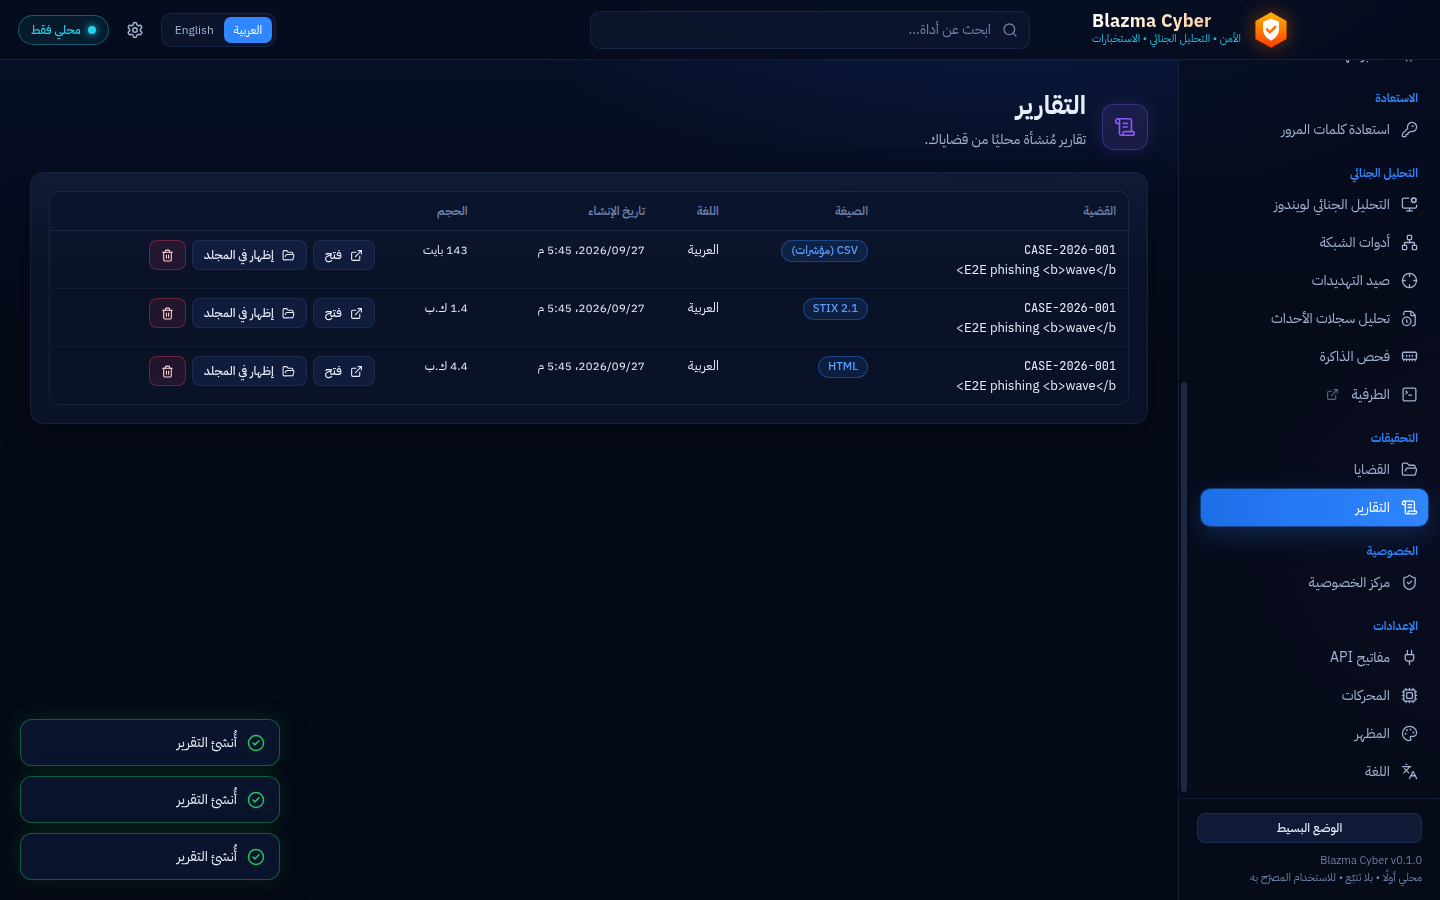
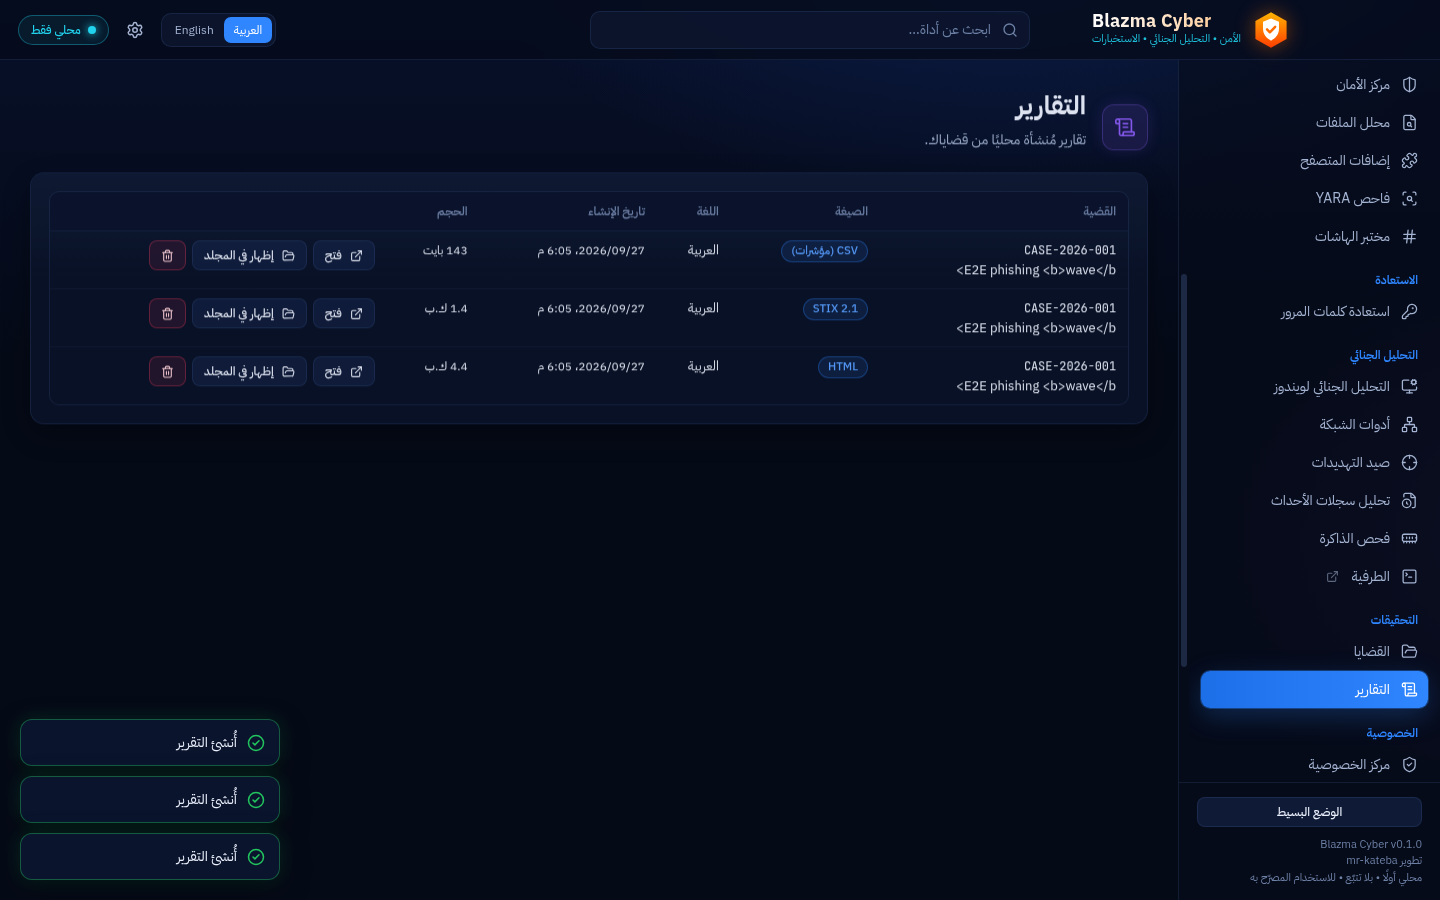
Show the developer (mr-kateba) in the app, installer and README; repository renamed to Blazma-Cyber
- About: Developer row and copyright line; language picker and sidebar
  footer show "By mr-kateba" / "تطوير mr-kateba"
- Installer/exe metadata: copyright and package author
- Links, update check and attestation commands use mr-kateba/Blazma-Cyber

diff --git a/tests/updates.test.ts b/tests/updates.test.ts
@@ -21,8 +21,8 @@ describe('Version comparison', () => {
   });
 
   it('picks the newest real release; drafts and non-version tags are ignored; the URL is built, never taken from the answer', () => {
-    expect(newestRelease(RELEASES, 'mr-kateba/-BLAZMA-CYBER')).toEqual({
-      tag: 'v0.2.0-beta.1', name: 'Beta 2', url: 'https://github.com/mr-kateba/-BLAZMA-CYBER/releases/tag/v0.2.0-beta.1', publishedAt: '2026-10-01T00:00:00Z', prerelease: true,
+    expect(newestRelease(RELEASES, 'mr-kateba/Blazma-Cyber')).toEqual({
+      tag: 'v0.2.0-beta.1', name: 'Beta 2', url: 'https://github.com/mr-kateba/Blazma-Cyber/releases/tag/v0.2.0-beta.1', publishedAt: '2026-10-01T00:00:00Z', prerelease: true,
     });
     expect(newestRelease({ message: 'Not Found' }, 'x/y')).toBeNull();
   });
@@ -38,9 +38,9 @@ describe('Manual update check', () => {
     const f = vi.fn(async (_u: string) => new Response(JSON.stringify(RELEASES), { status: 200 }));
     const { g, log } = gate(f);
     const r = await checkForUpdates(g, '0.1.0');
-    expect(f.mock.calls[0]![0]).toBe('https://api.github.com/repos/mr-kateba/-BLAZMA-CYBER/releases?per_page=20');
+    expect(f.mock.calls[0]![0]).toBe('https://api.github.com/repos/mr-kateba/Blazma-Cyber/releases?per_page=20');
     expect(r).toMatchObject({ current: '0.1.0', newer: true, latest: { tag: 'v0.2.0-beta.1' } });
-    expect(lastReleaseUrl()).toBe('https://github.com/mr-kateba/-BLAZMA-CYBER/releases/tag/v0.2.0-beta.1');
+    expect(lastReleaseUrl()).toBe('https://github.com/mr-kateba/Blazma-Cyber/releases/tag/v0.2.0-beta.1');
     expect(log[0]).toMatchObject({ host: 'api.github.com', dataKind: 'privacy.data.none', outcome: 'allowed' });
     expect((await checkForUpdates(gate(f).g, '0.2.0')).newer).toBe(false); // the final 0.2.0 is newer than its beta
   });

diff --git a/src/renderer/pages/Settings.tsx b/src/renderer/pages/Settings.tsx
@@ -1,6 +1,6 @@
 import { useEffect, useState } from 'react';
 import { Cpu, Info, KeyRound, Lock, RefreshCw, Settings as Gear, ShieldCheck } from 'lucide-react';
-import type { ApiKeyService, AppInfo, Settings, UpdateCheck } from '../../shared/api';
+import { APP_AUTHOR, APP_COPYRIGHT_YEAR, type ApiKeyService, type AppInfo, type Settings, type UpdateCheck } from '../../shared/api';
 import { Badge, Card, IconTile, Ltr, Notice, Tabs, Toggle, usePoll } from '../components/ui';
 import { useApp } from '../components/AppContext';
 import { useI18n } from '../i18n/I18nProvider';
@@ -271,6 +271,7 @@ function About({ info }: { info: AppInfo | null }) {
       {info && (
         <dl className="kv">
           <dt>{t('settings.version')}</dt><dd><Ltr>{info.version}</Ltr></dd>
+          <dt>{t('settings.developer')}</dt><dd><Ltr>{APP_AUTHOR}</Ltr></dd>
           <dt>{t('settings.platform')}</dt><dd><Ltr>{info.platform}</Ltr></dd>
           <dt>{t('settings.electron')}</dt><dd><Ltr>{info.electron}</Ltr></dd>
           <dt>{t('settings.dataDir')}</dt><dd><Ltr mono breakAll className="small">{info.dataDir}</Ltr>{info.portable && <div className="tiny dim">{t('settings.portableNote')}</div>}</dd>
@@ -278,6 +279,7 @@ function About({ info }: { info: AppInfo | null }) {
         </dl>
       )}
       <UpdateCheckRow />
+      <p className="small" style={{ marginBottom: 4 }}>{t('settings.copyright', { year: APP_COPYRIGHT_YEAR, author: APP_AUTHOR })}</p>
       <p className="small dim" style={{ marginBottom: 0 }}>{t('settings.license')}</p>
     </Card>
   );

diff --git a/src/renderer/pages/LanguagePicker.tsx b/src/renderer/pages/LanguagePicker.tsx
@@ -1,7 +1,7 @@
 import { useState } from 'react';
 import { Languages } from 'lucide-react';
 import type { Lang } from '../../core/i18n';
-import type { UiMode } from '../../shared/api';
+import { APP_AUTHOR, type UiMode } from '../../shared/api';
 import { Logo } from '../components/Logo';
 import { translatorFor } from '../i18n/I18nProvider';
 
@@ -20,6 +20,7 @@ export function LanguagePicker({ onPick }: { onPick: (l: Lang, mode: UiMode) => 
           <Logo size={72} className="brand-logo" />
           <div className="brand-name" style={{ fontSize: 26, marginTop: 14 }}>Blazma Cyber</div>
           <div className="brand-tag" style={{ marginTop: 4 }}>{t('app.tagline')}</div>
+          <div className="tiny dim" style={{ marginTop: 6 }}>{t('app.byline', { author: APP_AUTHOR })}</div>
           <h1 style={{ marginTop: 26, fontSize: 22, display: 'flex', gap: 10, justifyContent: 'center', alignItems: 'center' }}>
             <Languages size={22} color="var(--cyan)" />
             <span>{ar('langPicker.title')}</span>

diff --git a/src/renderer/Shell.tsx b/src/renderer/Shell.tsx
@@ -7,6 +7,7 @@ import { useI18n } from './i18n/I18nProvider';
 import { findItem, labelKeyFor, visibleNav, type PageId } from './nav';
 import { DownloadsOpenListener } from './components/DownloadsWatch';
 import { Dashboard } from './pages/Dashboard';
+import { APP_AUTHOR } from '../shared/api';
 
 // Every page except the dashboard is loaded on first visit (smaller startup bundle).
 const FileAnalyzer = lazy(() => import('./pages/FileAnalyzer').then((m) => ({ default: m.FileAnalyzer })));
@@ -293,6 +294,7 @@ export function Shell() {
             <div>
               <span className="ltr">Blazma Cyber v0.1.0</span>
             </div>
+            <div>{t('app.byline', { author: APP_AUTHOR })}</div>
             <div>{t('app.footer')}</div>
           </div>
         </aside>

diff --git a/src/main/services/updates.ts b/src/main/services/updates.ts
@@ -6,7 +6,7 @@ import type { NetworkGate } from '../../core/network-gate';
 import { compareSemver, newestRelease, parseSemver } from '../../core/version';
 import type { UpdateCheck } from '../../shared/api';
 
-export const UPDATE_REPO = 'mr-kateba/-BLAZMA-CYBER';
+export const UPDATE_REPO = 'mr-kateba/Blazma-Cyber';
 
 export class UpdateError extends Error {
   constructor(readonly code: string) {

diff --git a/src/shared/api.ts b/src/shared/api.ts
@@ -302,6 +302,10 @@ export interface TaskProgress {
   stage: 'hashing' | 'analyzing' | 'scanning' | 'done';
 }
 
+/** The developer shown in About, the first-launch screen and the installer metadata. */
+export const APP_AUTHOR = 'mr-kateba';
+export const APP_COPYRIGHT_YEAR = 2026;
+
 export interface AppInfo {
   version: string;
   platform: string;

diff --git a/README.ar.md b/README.ar.md
@@ -2,6 +2,8 @@
 
 # Blazma Cyber — الشرح بالعربي
 
+تطوير **[mr-kateba](https://github.com/mr-kateba)**
+
 **الأمن • التحليل الجنائي • الاستخبارات**
 
 برنامج سطح مكتب لـ Windows 10/11 للأمن السيبراني الدفاعي: تحليل الملفات، وفحص Defender وYARA،
@@ -17,16 +19,16 @@
 ## الطريقة 1: تنزيل المثبّت الجاهز (الأسهل)
 
 ### 1) التنزيل
-- افتح صفحة **[الإصدارات (Releases)](https://github.com/mr-kateba/-BLAZMA-CYBER/releases)** — تظهر أيضًا في
+- افتح صفحة **[الإصدارات (Releases)](https://github.com/mr-kateba/Blazma-Cyber/releases)** — تظهر أيضًا في
   يمين صفحة المستودع الرئيسية تحت **Releases**.
 - نزّل `BLAZMA-CYBER-0.1.0-x64-setup.exe` من قسم **Assets**. لا يحتاج تسجيل دخول.
 - رابط مباشر لآخر إصدار تجريبي (v0.1.0-beta.1):
-  https://github.com/mr-kateba/-BLAZMA-CYBER/releases/download/v0.1.0-beta.1/BLAZMA-CYBER-0.1.0-x64-setup.exe
+  https://github.com/mr-kateba/Blazma-Cyber/releases/download/v0.1.0-beta.1/BLAZMA-CYBER-0.1.0-x64-setup.exe
 
 #### (اختياري) تحقّق أن الملف سليم وأصلي
 - **البصمة:** في PowerShell: `Get-FileHash .\BLAZMA-CYBER-0.1.0-x64-setup.exe -Algorithm SHA256`
   ويجب أن تطابق القيمة في ملف `SHA256SUMS.txt` وفي صفحة الإصدار.
-- **شهادة مصدر البناء (من GitHub):** `gh attestation verify .\BLAZMA-CYBER-0.1.0-x64-setup.exe -R mr-kateba/-BLAZMA-CYBER`
+- **شهادة مصدر البناء (من GitHub):** `gh attestation verify .\BLAZMA-CYBER-0.1.0-x64-setup.exe -R mr-kateba/Blazma-Cyber`
   تثبت أن الملف بُني من هذا المستودع عبر GitHub Actions ولم يُعدَّل بعدها (تحتاج أداة [GitHub CLI](https://cli.github.com)).
 
 > نسخ أحدث للمطوّرين تُبنى تلقائيًا بعد كل تعديل في **Actions → CI → Artifacts →
@@ -61,7 +63,7 @@
 **المتطلبات:** Windows 10/11 64-bit، و[Node.js 20 أو أحدث](https://nodejs.org) (يُفضّل 22 LTS)، وGit.
 
 ```powershell
-git clone https://github.com/mr-kateba/-BLAZMA-CYBER.git Blazma-Cyber
+git clone https://github.com/mr-kateba/Blazma-Cyber.git Blazma-Cyber
 cd Blazma-Cyber
 .\Start-Blazma.ps1 -Install     # أول مرة: يثبّت الاعتماديات، يبني البرنامج، ويشغّله
 .\Start-Blazma.ps1              # المرات التالية
@@ -140,7 +142,7 @@ npm run dist:win     # الناتج: release\Blazma-Cyber-<الإصدار>-x64-s
 مخصّص للاستخدام الدفاعي على الأجهزة والشبكات والملفات التي تملكها أو المصرّح لك بفحصها.
 
 ## الترخيص
-حقوق النشر © 2026 mr-kateba ومساهمو Blazma Cyber.
+حقوق النشر © 2026 [mr-kateba](https://github.com/mr-kateba).
 
 البرنامج مفتوح المصدر بترخيص **GNU GPL الإصدار 3 أو أحدث** ([LICENSE](LICENSE)):
 - تقدر تستخدمه وتنسخه وتعدّله وتوزّعه بحرية.

diff --git a/.github/release-notes.md b/.github/release-notes.md
@@ -2,7 +2,7 @@
 
 ## إصدار تجريبي — Blazma Cyber
 
-منصة أمن سيبراني دفاعي لـ Windows 10/11، محلية أولًا، بالعربي والإنجليزي. الشرح الكامل: [README.ar.md](https://github.com/mr-kateba/-BLAZMA-CYBER/blob/main/README.ar.md)
+منصة أمن سيبراني دفاعي لـ Windows 10/11، محلية أولًا، بالعربي والإنجليزي. الشرح الكامل: [README.ar.md](https://github.com/mr-kateba/Blazma-Cyber/blob/main/README.ar.md)
 
 ### التثبيت
 1. نزّل `Blazma-Cyber-*-x64-setup.exe` من الملفات بالأسفل.
@@ -13,7 +13,7 @@
 
 ### التحقق من سلامة الملف
 - **شهادة مصدر البناء (Build provenance):** تثبت أن الملف بُني من هذا المستودع عبر GitHub Actions ولم يُعدَّل بعدها:
-  `gh attestation verify BLAZMA-CYBER-0.1.0-x64-setup.exe -R mr-kateba/-BLAZMA-CYBER`
+  `gh attestation verify BLAZMA-CYBER-0.1.0-x64-setup.exe -R mr-kateba/Blazma-Cyber`
 - **SHA-256:** قارن الناتج بالقيمة بالأسفل وبملف `SHA256SUMS.txt`:
   `Get-FileHash .\BLAZMA-CYBER-0.1.0-x64-setup.exe -Algorithm SHA256`
 
@@ -32,6 +32,6 @@ Privacy-first, local-first, bilingual (Arabic/English) defensive cybersecurity w
 
 - **Portable:** `Blazma-Cyber-*-x64-portable.zip` runs without installing (unzip anywhere, e.g. a USB drive); all data stays in `Blazma-data` next to the program.
 - **Unsigned** (no code-signing certificate yet): SmartScreen shows *Windows protected your PC* → **More info → Run anyway**. Per-user install, no administrator rights.
-- **Verify provenance:** `gh attestation verify BLAZMA-CYBER-0.1.0-x64-setup.exe -R mr-kateba/-BLAZMA-CYBER` (GitHub build-provenance attestation, Sigstore).
+- **Verify provenance:** `gh attestation verify BLAZMA-CYBER-0.1.0-x64-setup.exe -R mr-kateba/Blazma-Cyber` (GitHub build-provenance attestation, Sigstore).
 - **Verify integrity:** compare `Get-FileHash <file> -Algorithm SHA256` with `SHA256SUMS.txt` / the value below.
 - Verified automatically on real Windows (Server 2025) in CI; not yet hand-tested on a Windows 10/11 desktop (install/uninstall, title bar, Defender quick/full scans, real John/hashcat).

diff --git a/README.md b/README.md
@@ -6,6 +6,8 @@
 
 A privacy-first, local-first, bilingual (العربية / English) Windows cybersecurity workbench.
 
+By **[mr-kateba](https://github.com/mr-kateba)**
+
 **[الشرح بالعربي — التنزيل والتثبيت والتشغيل](README.ar.md)**
 
 </div>
@@ -102,10 +104,10 @@ The launcher checks prerequisites and prints clear errors (English + Arabic). It
 anything unless you pass `-Install`.
 
 ## Download the installer
-Get it from **[Releases](https://github.com/mr-kateba/-BLAZMA-CYBER/releases)** (latest pre-release:
-[`BLAZMA-CYBER-0.1.0-x64-setup.exe`](https://github.com/mr-kateba/-BLAZMA-CYBER/releases/download/v0.1.0-beta.1/BLAZMA-CYBER-0.1.0-x64-setup.exe)).
+Get it from **[Releases](https://github.com/mr-kateba/Blazma-Cyber/releases)** (latest pre-release:
+[`BLAZMA-CYBER-0.1.0-x64-setup.exe`](https://github.com/mr-kateba/Blazma-Cyber/releases/download/v0.1.0-beta.1/BLAZMA-CYBER-0.1.0-x64-setup.exe)).
 It is unsigned, so SmartScreen shows "Windows protected your PC" → **More info → Run anyway**.
-Verify it with `SHA256SUMS.txt` or `gh attestation verify <file> -R mr-kateba/-BLAZMA-CYBER`
+Verify it with `SHA256SUMS.txt` or `gh attestation verify <file> -R mr-kateba/Blazma-Cyber`
 (GitHub build provenance). Development builds: **Actions → CI → Artifacts** (sign-in, 14 days).
 Step-by-step in Arabic: [README.ar.md](README.ar.md).
 
@@ -161,7 +163,7 @@ Architecture: [docs/ARCHITECTURE.md](docs/ARCHITECTURE.md).
 Intended for defensive use on systems, networks and files you own or are authorized to assess.
 
 ## License
-Copyright © 2026 mr-kateba and Blazma Cyber contributors.
+Copyright © 2026 [mr-kateba](https://github.com/mr-kateba).
 
 Blazma Cyber is free software: you can redistribute it and/or modify it under the terms of the
 **GNU General Public License v3.0 or later** ([LICENSE](LICENSE)). It is distributed WITHOUT ANY

diff --git a/ENGINEERING.md b/ENGINEERING.md
@@ -183,3 +183,4 @@ API keys only via Electron `safeStorage` (DPAPI) — refuse to store if encrypti
 | 2026-09 | Updates: manual check only, link to the release page built in main (never the API's URL); no auto-download/installer | The app never downloads or runs binaries by itself; a signed-installer auto-update can come later |
 | 2026-09 | File/folder Defender scans use -DisableRemediation | Blazma reports; the user decides (quick/full follow Defender policy, stated in UI) |
 | 2026-09 | Branding: product name "Blazma Cyber" (not all-caps); logo = Blazma family hexagon (#FFB300→#FF3D00 gradient) with a white shield + check (`branding/`, `build/icon.*` via scripts/make-icon.mjs); env vars stay `BLAZMA_*` | Consistent with the sibling apps (Blazma Get, Blazma Boost); env names are an internal contract |
+| 2026-09 | Developer credit = `APP_AUTHOR` ('mr-kateba', src/shared/api.ts): About, language picker, sidebar footer, installer copyright, package author, README. Commits are authored as `mr-kateba <132195893+mr-kateba@users.noreply.github.com>` | Owner's decision: the project is published under the owner's name |

diff --git a/docs/DEVELOPMENT.md b/docs/DEVELOPMENT.md
@@ -47,7 +47,7 @@ On Windows you can also use `.\Start-Blazma.ps1` (`-Install`, `-Dev`, `-SkipBuil
 `.github/workflows/release.yml` is started manually (**Actions → Release → Run workflow**, tag such
 as `v0.1.0-beta.1`). On a clean Windows runner it runs `npm run check`, builds the installer, runs
 the packaged-app smoke test, writes `SHA256SUMS.txt`, creates a GitHub build-provenance attestation
-(verify with `gh attestation verify <file> -R mr-kateba/-BLAZMA-CYBER`) and publishes a GitHub
+(verify with `gh attestation verify <file> -R mr-kateba/Blazma-Cyber`) and publishes a GitHub
 Release (pre-release by default) with notes from `.github/release-notes.md`.
 Code signing is optional: repository secrets `WIN_CSC_LINK` / `WIN_CSC_KEY_PASSWORD`; without them
 the installer is unsigned. Never use a self-signed certificate for public releases — Windows does
